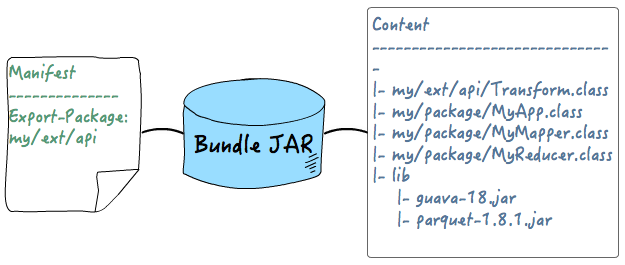
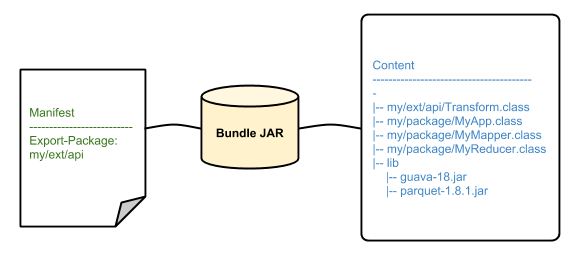
Revised images and image links.

Changed region(s): [[0.0, 0.0, 0.9948, 0.9961]]

diff --git a/cdap-docs/developers-manual/source/advanced/class-loading.rst b/cdap-docs/developers-manual/source/advanced/class-loading.rst
@@ -36,8 +36,10 @@ its parent class loader first before trying to load the class itself, using this
 logic to load the requested class:
 
 .. image:: ../_images/class-loading/class-loading01.png
-   :width: 7in
    :align: center
+
+..    :width: 70%
+..    :scale: 75%
 
 Each loaded class maintains a reference to the class loader instance which actually read
 the class file and defined the class. We call that class loader the **defining class
@@ -74,8 +76,10 @@ Based on the parent delegation model, we’ve come up with this class loader hie
 CDAP:
 
 .. image:: ../_images/class-loading/class-loading02.png
-   :width: 7in
    :align: center
+
+..    :width: 82%
+..    :scale: 75%
 
 With this class loader hierarchy, the CDAP runtime system interacts with custom
 applications only through classes and interfaces defined in the API class loader; hence,
@@ -94,8 +98,10 @@ a normal JAR file that contains a collection of class files, a bundle JAR file h
 similar to this example:
 
 .. image:: ../_images/class-loading/class-loading03.png
-   :width: 7in
    :align: center
+
+..    :width: 58%
+..    :scale: 75%
 
 Inside an application bundle JAR file, besides the class files for the application, are
 the JAR files for third party libraries that are needed by the application. In the
